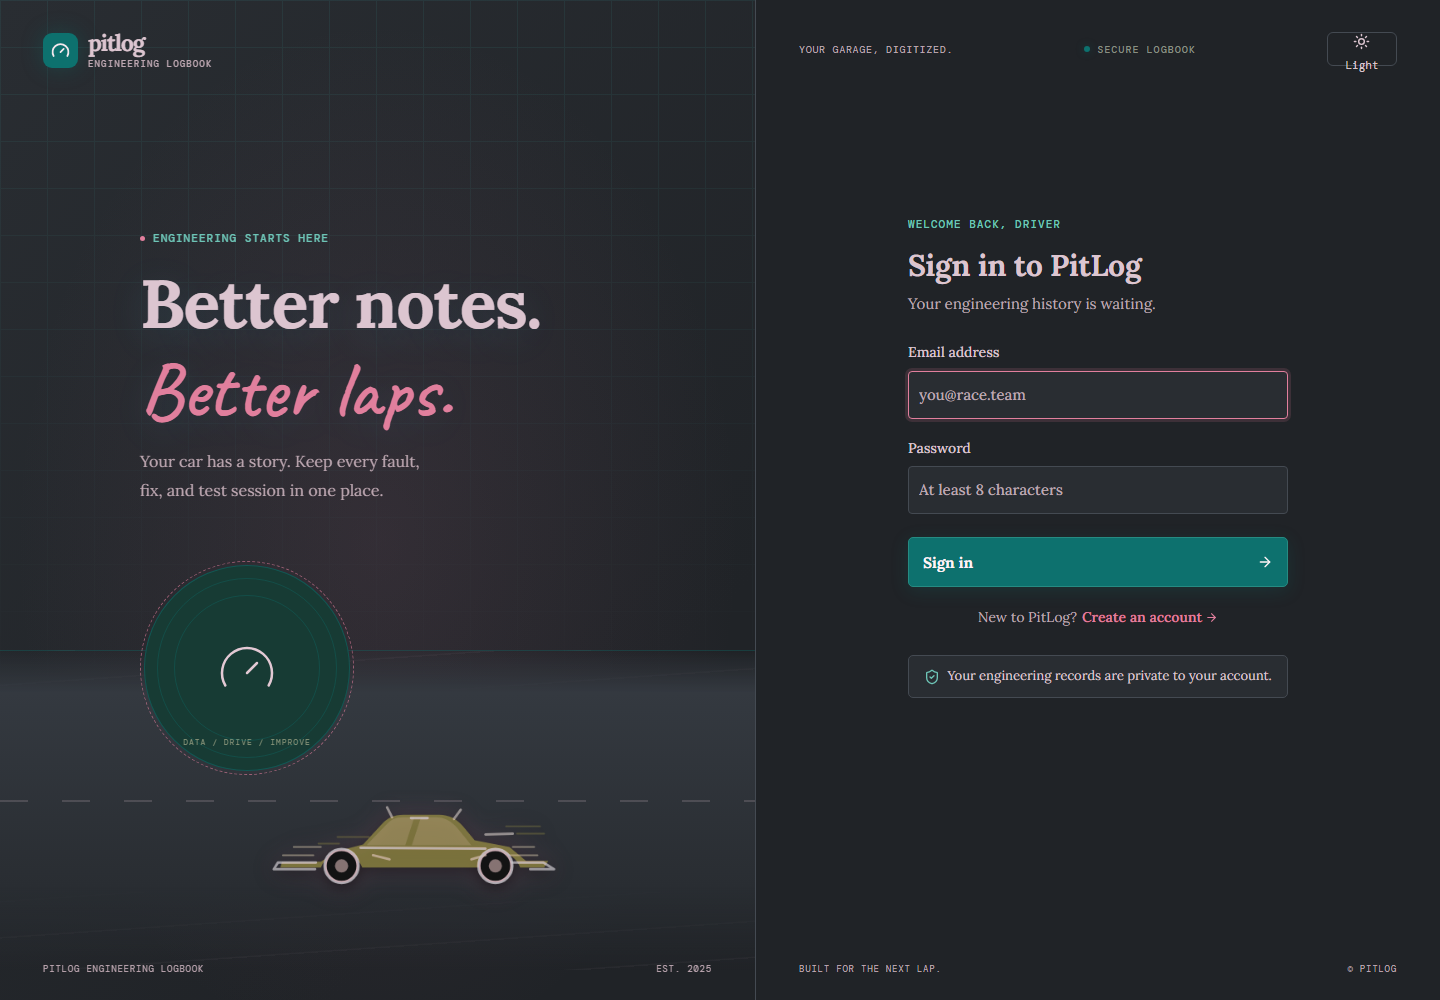
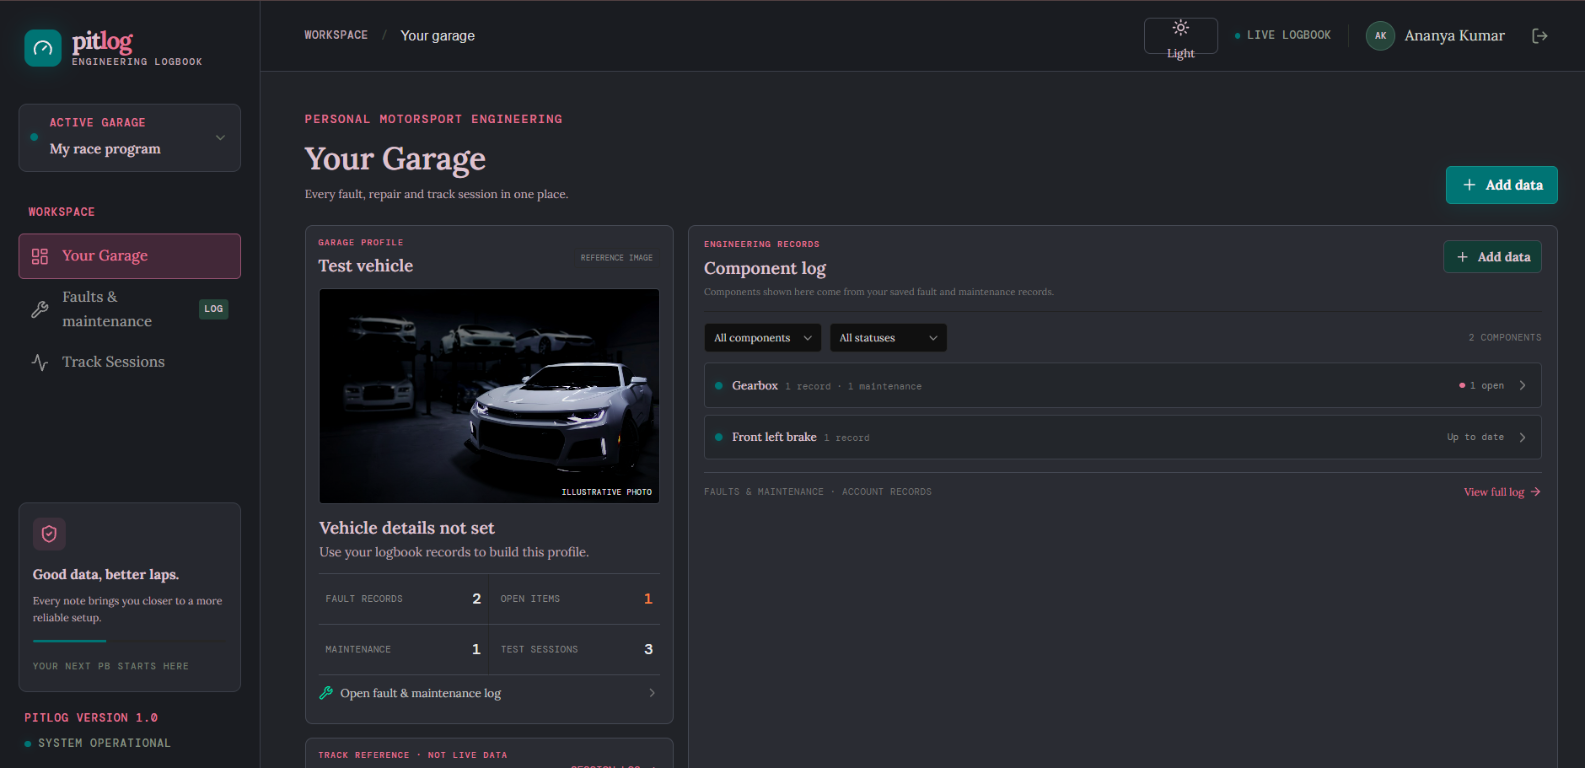
Replace README demo with garage dashboard

diff --git a/README.md b/README.md
@@ -2,7 +2,7 @@
 
 ## Demo
 
-![PitLog sign-in page demo](public/pitlog-demo.png)
+![PitLog garage dashboard demo](public/pitlog-demo.png)
 
 ## Problem statement
 
